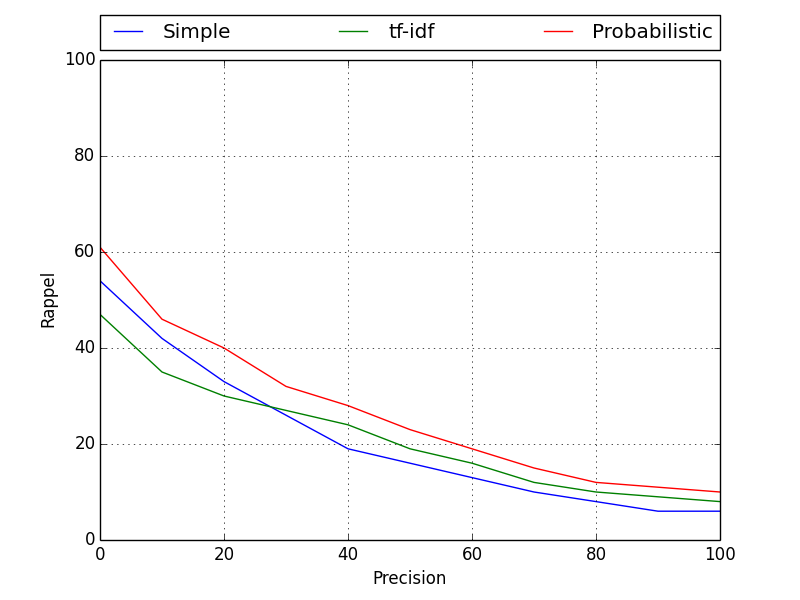
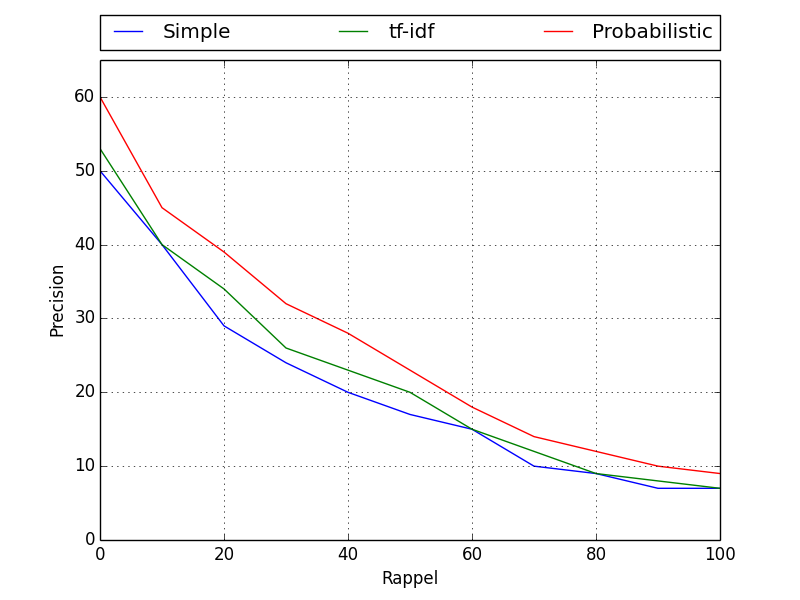
fix on tf_idf curve

diff --git a/Vect_query.py b/Vect_query.py
@@ -20,7 +20,7 @@ class Vect_query(Query):
     """
 
     def indexize(self, query):
-        """ trnasform the query from a string to a word index """
+        """ transform the query from a string to a word index """
         query_index = defaultdict(int)
         wordsBuffer = re.findall(r"[a-zA-Z0-9]+", query)
         for word in wordsBuffer:
@@ -41,14 +41,22 @@ class Vect_query(Query):
 
         # computes a ponderated vector for query
         query_vect = self.indexed_query
+        for w in query_vect:
+            if pond_type == 'tf_idf':
+                if w in self.my_index.reversed_index:
+                    tf = float(query_vect[w])
+                    df = len(self.my_index.reversed_index[w])
+                    N = float(self.my_index.N)
+                    query_vect[w] = (1+log10(df))*log10((N)/df)
+            elif w not in self.my_index.reversed_index:
+                query_vect[w] = 0
 
         # computes a ponderated vector and computes cosinus
         doc_vect = defaultdict(dict)
         for word in self.indexed_query:
             if word in self.my_index.reversed_index:
                 for doc_id in self.my_index.reversed_index[word]:
-                    if doc_id != 'df':
-                        doc_vect[doc_id][word] = self.ponderation(word, doc_id, pond_type)
+                    doc_vect[doc_id][word] = self.ponderation(word, doc_id, pond_type)
         for doc_id in doc_vect:
             cos = self.cosinus(query_vect, doc_vect[doc_id], doc_id, pond_type)
             res_temp[doc_id] = cos
@@ -67,7 +75,7 @@ class Vect_query(Query):
             return float(tf)/float(max_tf)
 
     def tf_idf(self, word, doc_id):
-        df = self.my_index.reversed_index[word]['df']
+        df = len(self.my_index.reversed_index[word])
         tf = self.my_index.reversed_index[word][doc_id]
         return self.tf_log(tf)*self.idf(df)
 
@@ -88,24 +96,18 @@ class Vect_query(Query):
         """ computes cosinus calculation """
         p = 0
         norm_query = 0
+        norm_doc = 0
         for w, w_freq in indexed_query.iteritems():
             if w in indexed_doc.keys():
                 p += float(w_freq)*float(indexed_doc[w])
+                norm_doc += pow(indexed_doc[w], 2)
             norm_query += pow(w_freq, 2)
         if p != 0:
             norm_query = sqrt(norm_query)
-            return float(float(p)/(norm_query*self.norm_doc_vect(doc_id, pond_type)))
+            norm_doc = sqrt(norm_doc)
+            return float(float(p)/(norm_query*norm_doc))
         else:
             return 0
-
-    def norm_doc_vect(self, doc_id, pond_type):
-        """ computes norm """
-        n = 0
-        for w in self.my_index.index[doc_id].keys():
-            if w not in ['w_max', 'max_tf_idf']:
-                freq = self.ponderation(w, doc_id, pond_type)
-                n += pow(freq, 2)
-        return sqrt(float(n))
 
     def tf_log(self, tf):
         if tf > 0:

diff --git a/Measures.py b/Measures.py
@@ -133,9 +133,9 @@ class Measures:
         plt.plot(rappel_11, precision_tf, label='tf-idf')
         plt.plot(rappel_11, precision_proba, label='Probabilistic')
         plt.legend(bbox_to_anchor=(0., 1.02, 1., .102), loc=3, ncol=3, mode="expand", borderaxespad=0.)
-        plt.ylabel("Rappel")
-        plt.xlabel("Precision")
-        plt.axis([0, 100, 0, 100])
+        plt.ylabel("Precision")
+        plt.xlabel("Rappel")
+        plt.axis([0, 100, 0, 65])
         plt.grid(True)
         plt.savefig('./resources/Precision-Rappel.png', format='png')
         print 'Curve has been saved in resources folder.'

diff --git a/Probabilistic_query.py b/Probabilistic_query.py
@@ -37,8 +37,8 @@ class Probabilistic_query(Query):
             if w in self.my_index.reversed_index:
                 for doc_id in self.my_index.reversed_index[w]:
                     if doc_id != 'df':
-                        df = float(self.my_index.reversed_index[w]['df'])
+                        df = float(len(self.my_index.reversed_index[w]))
                         N = float(int(self.my_index.N))
-                        res_temp[doc_id] += log_p + log10((N-df)/df)
+                        res_temp[doc_id] += log_p + log10(N/df)
         return res_temp
 

diff --git a/Index.py b/Index.py
@@ -77,9 +77,7 @@ class Index:
             if not compute_df:
                 index[k1]['w_max'] = 0
         index[k1][k2] += 1
-        if compute_df:
-            index[k1]['df'] += 1
-        else:
+        if not compute_df:
             if index[k1][k2] > index[k1]['w_max']:
                 index[k1]['w_max'] = index[k1][k2]
 
